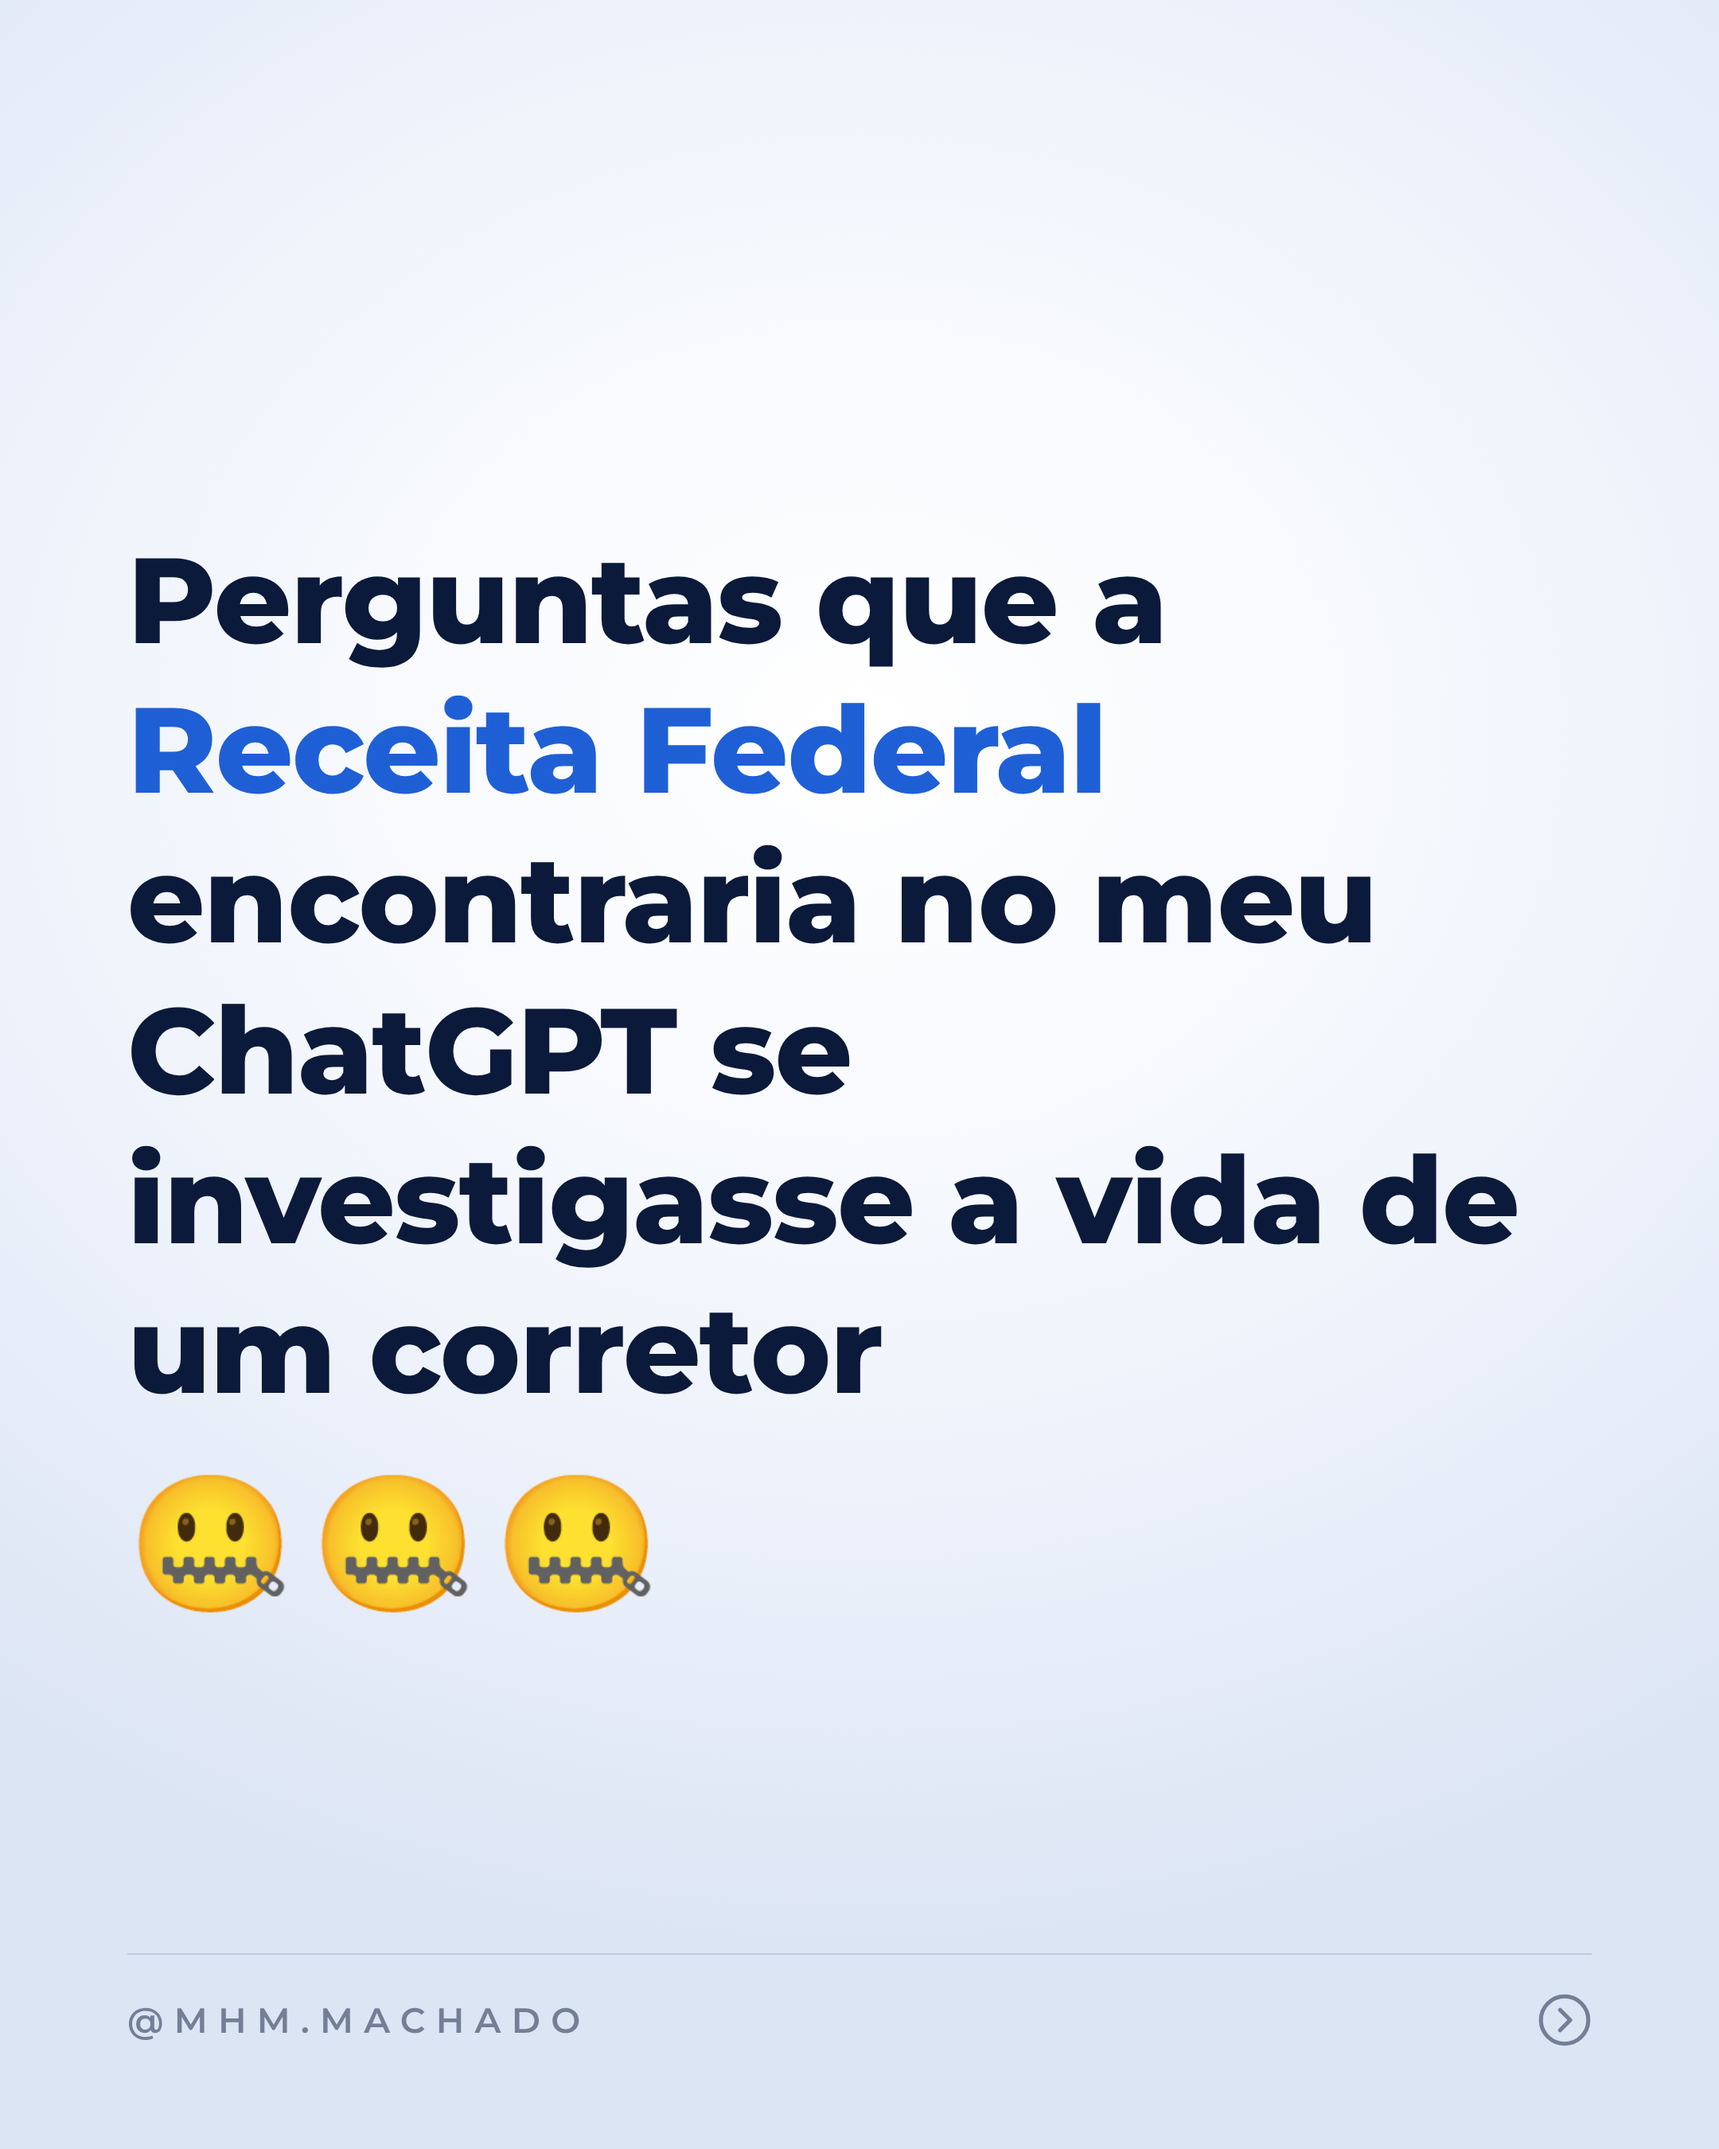
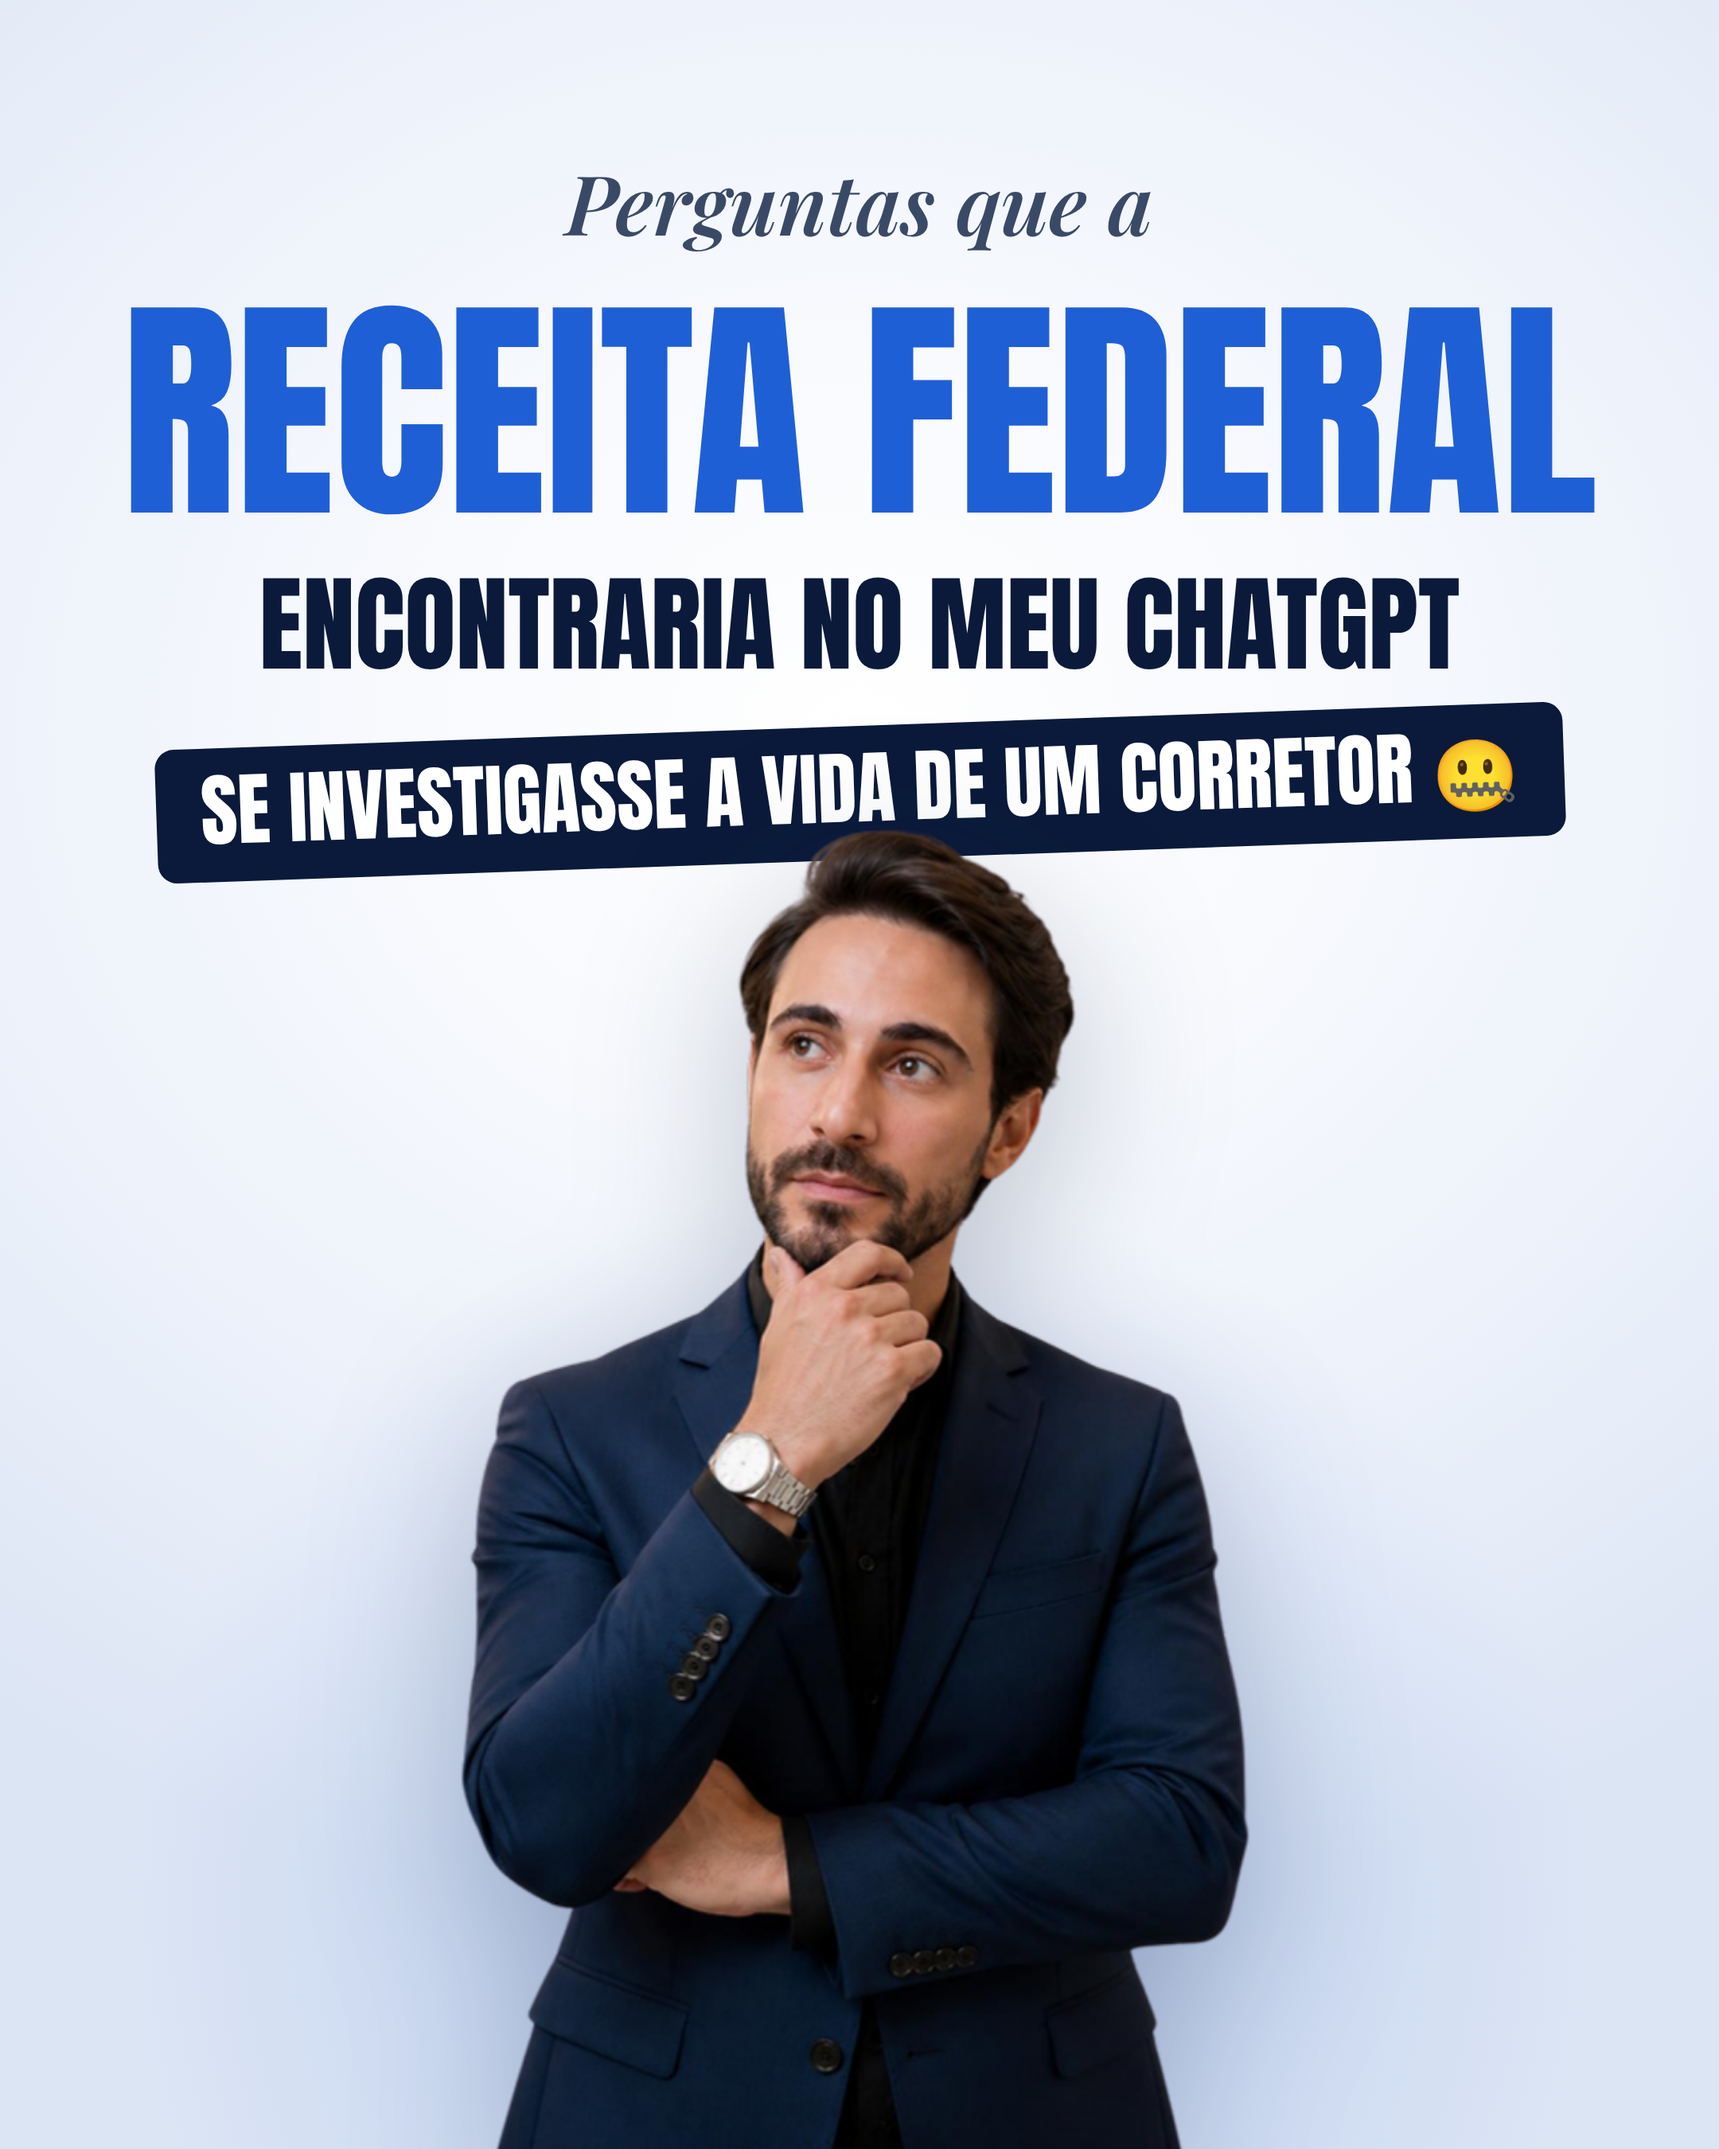
Carrossel Receita Federal: capa no padrão do dono com foto (pensativo)
Claude-Session: https://claude.ai/code/session_01Np5ufUPjCUiaopUW7Sbfpp

diff --git a/docs/posicionamento/carrosseis/2026-10-15-receita-federal-chatgpt/laminas.html b/docs/posicionamento/carrosseis/2026-10-15-receita-federal-chatgpt/laminas.html
@@ -1,5 +1,5 @@
 <!doctype html><html lang="pt-BR"><head><meta charset="utf-8">
-<meta name="fontes" content="family=Montserrat:wght@500;600;700;800&family=Roboto:wght@400;500">
+<meta name="fontes" content="family=Anton&family=Playfair+Display:ital,wght@1,600&family=Montserrat:wght@500;600;700;800&family=Roboto:wght@400;500">
 <style>
 :root{--azul:#1F5FD6;--nav:#0B1A3A;--txt:#3A4A66}
 *{box-sizing:border-box;margin:0;padding:0} body{background:#000}
@@ -20,9 +20,16 @@
 .meta{display:flex;justify-content:flex-end;align-items:center;gap:8px;margin-top:8px;font-size:24px;color:#667781}
 .ck{width:34px;height:21px}
 </style></head><body>
-<section class="lamina"><div class="capa">
-<h1>Perguntas que a <em>Receita Federal</em> encontraria no meu ChatGPT se investigasse a vida de um corretor</h1>
-<div class="emo">🤐🤐🤐</div></div><div class="rod"><span>@MHM.MACHADO</span><svg viewBox="0 0 24 24"><circle cx="12" cy="12" r="10.5"/><path d="M10 7.5 14.5 12 10 16.5"/></svg></div></section>
+<section class="lamina">
+<div style="position:absolute;left:50%;top:700px;transform:translateX(-50%);width:1000px;height:1000px;border-radius:50%;background:radial-gradient(circle,rgba(31,95,214,.20),transparent 65%)"></div>
+<div style="position:absolute;left:0;right:0;top:92px;text-align:center;z-index:1">
+ <div style="font-family:'Playfair Display';font-style:italic;font-weight:600;font-size:52px;color:var(--txt)">Perguntas que a</div>
+ <div style="font-family:Anton;text-transform:uppercase;font-size:150px;line-height:1.22;color:var(--azul);margin-top:6px">Receita Federal</div>
+ <div style="font-family:Anton;text-transform:uppercase;font-size:66px;line-height:1.24;margin-top:2px">encontraria no meu ChatGPT</div>
+ <div style="display:inline-block;margin-top:22px;font-family:Anton;text-transform:uppercase;font-size:50px;line-height:1.3;background:var(--nav);color:#fff;padding:6px 28px 10px;border-radius:12px;transform:rotate(-2deg)">se investigasse a vida de um corretor <span style="font-family:'Noto Color Emoji';font-size:44px">🤐</span></div>
+</div>
+<img src="img/pensativo.png" style="position:absolute;left:50%;bottom:0;transform:translateX(-50%);height:880px;z-index:2;filter:drop-shadow(0 30px 50px rgba(11,26,58,.25))">
+</section>
 <section class="lamina"><div class="chat"><div class="bal">Como responder um cliente que perguntou algo que já estava escrito no anúncio sem xingá-lo?<div class="meta">23:47<svg class="ck" viewBox="0 0 18 11"><path d="M1 5.6 4.6 9.2 12.2 1.4M7.4 9.2 15.4 1.4" fill="none" stroke="#53BDEB" stroke-width="1.6" stroke-linecap="round" stroke-linejoin="round"/></svg></div></div></div><div class="rod"><span>@MHM.MACHADO</span><svg viewBox="0 0 24 24"><circle cx="12" cy="12" r="10.5"/><path d="M10 7.5 14.5 12 10 16.5"/></svg></div></section>
 <section class="lamina"><div class="chat"><div class="bal">Me dê uma forma educada de perguntar se ele realmente vai falar com a esposa ou só quer encerrar a conversa.<div class="meta">00:12<svg class="ck" viewBox="0 0 18 11"><path d="M1 5.6 4.6 9.2 12.2 1.4M7.4 9.2 15.4 1.4" fill="none" stroke="#53BDEB" stroke-width="1.6" stroke-linecap="round" stroke-linejoin="round"/></svg></div></div></div><div class="rod"><span>@MHM.MACHADO</span><svg viewBox="0 0 24 24"><circle cx="12" cy="12" r="10.5"/><path d="M10 7.5 14.5 12 10 16.5"/></svg></div></section>
 <section class="lamina"><div class="chat"><div class="bal">Como cobrar documento pela 7ª vez sem parecer que estou implorando?<div class="meta">07:03<svg class="ck" viewBox="0 0 18 11"><path d="M1 5.6 4.6 9.2 12.2 1.4M7.4 9.2 15.4 1.4" fill="none" stroke="#53BDEB" stroke-width="1.6" stroke-linecap="round" stroke-linejoin="round"/></svg></div></div></div><div class="rod"><span>@MHM.MACHADO</span><svg viewBox="0 0 24 24"><circle cx="12" cy="12" r="10.5"/><path d="M10 7.5 14.5 12 10 16.5"/></svg></div></section>
